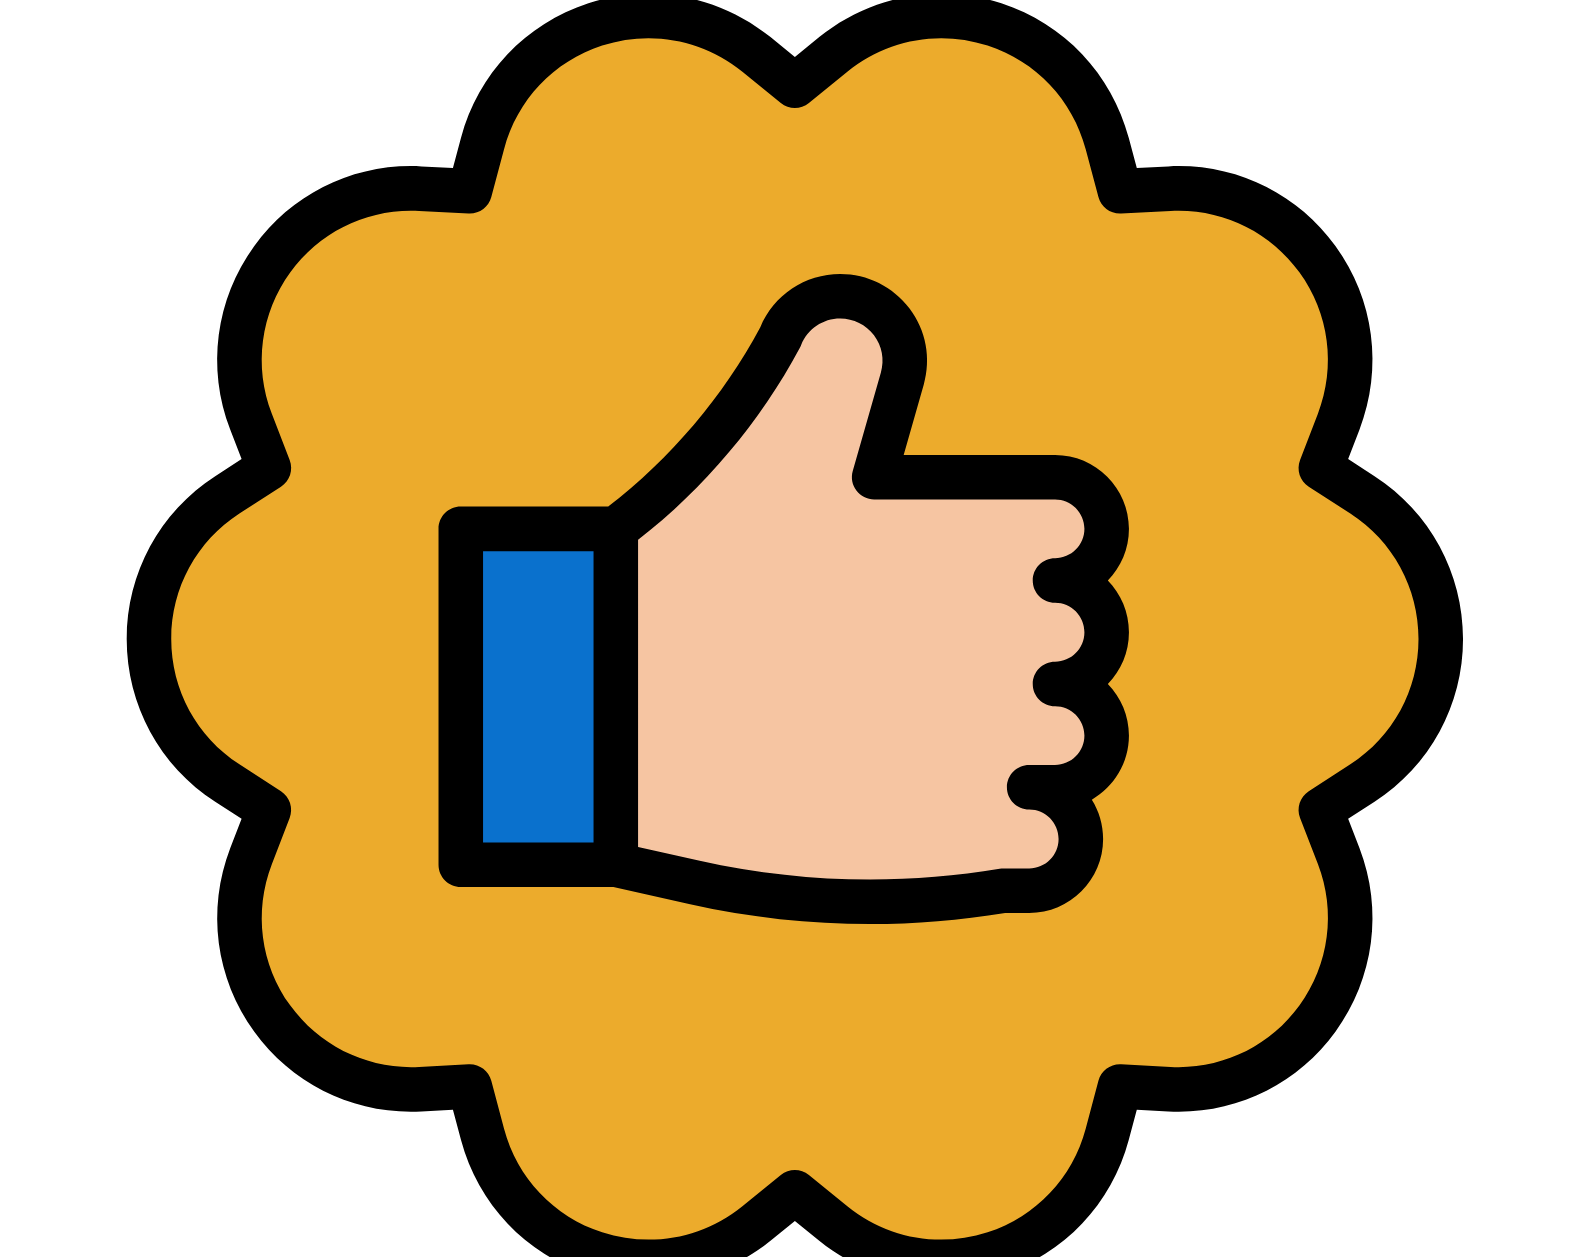
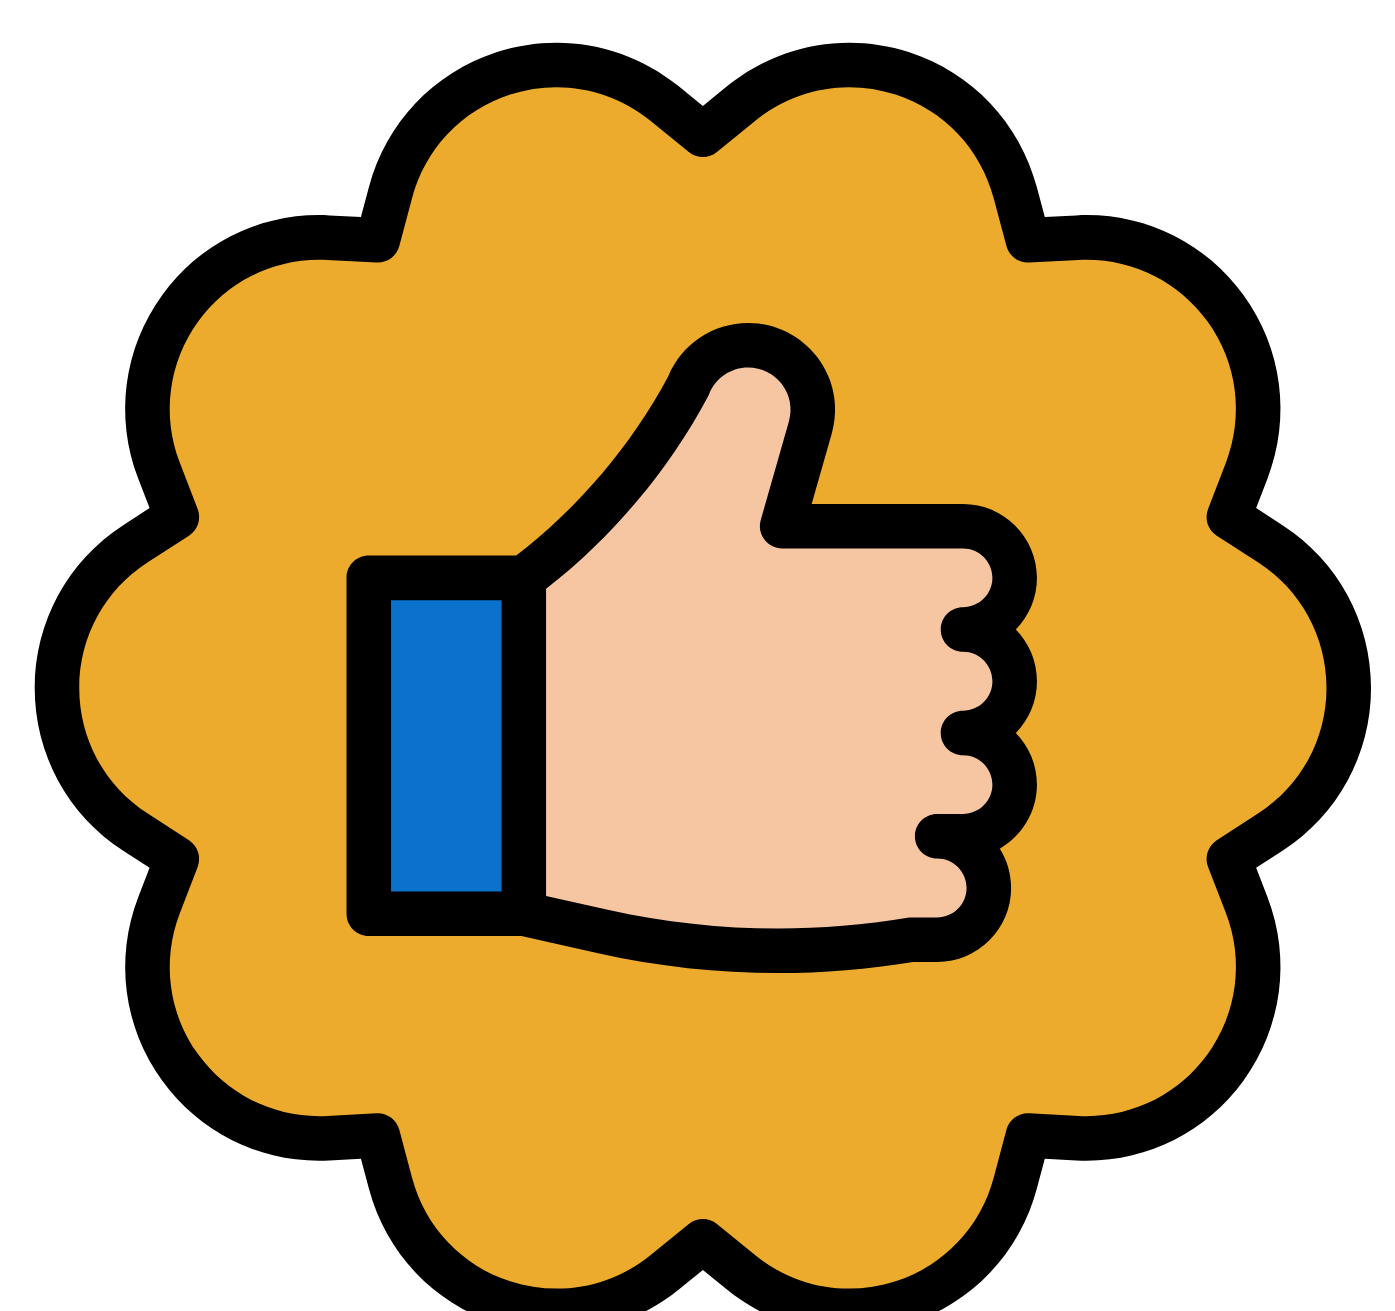
add fitur again

diff --git a/index.html b/index.html
@@ -155,10 +155,10 @@
                         </div>
                       </div>
                     </div>
-                    <div class="col-lg-4">
+                    <div class="col-lg-5">
                       <div class="info-post">
                         <div class="icon">
-                          <img src="assets/images/sopan.png" alt="">
+                          <img src="assets/images/sp2.png" alt="">
                           <a href="#">Prediction</a>
                         </div>
                       </div>
